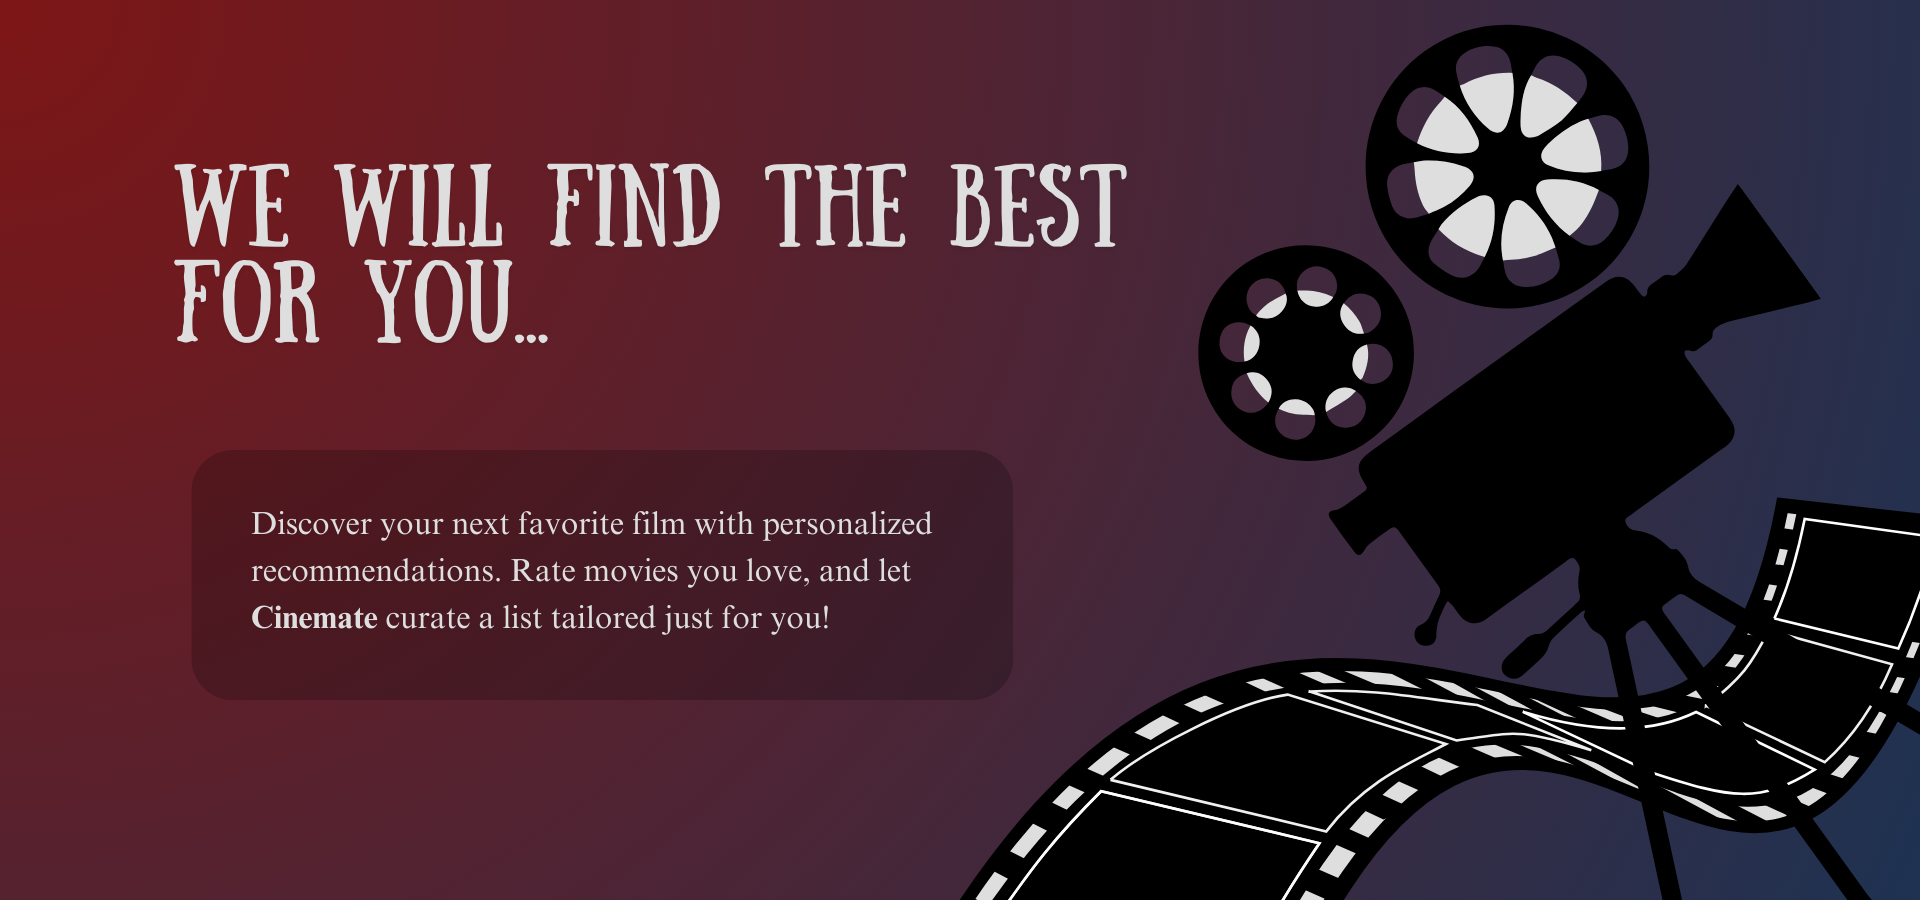
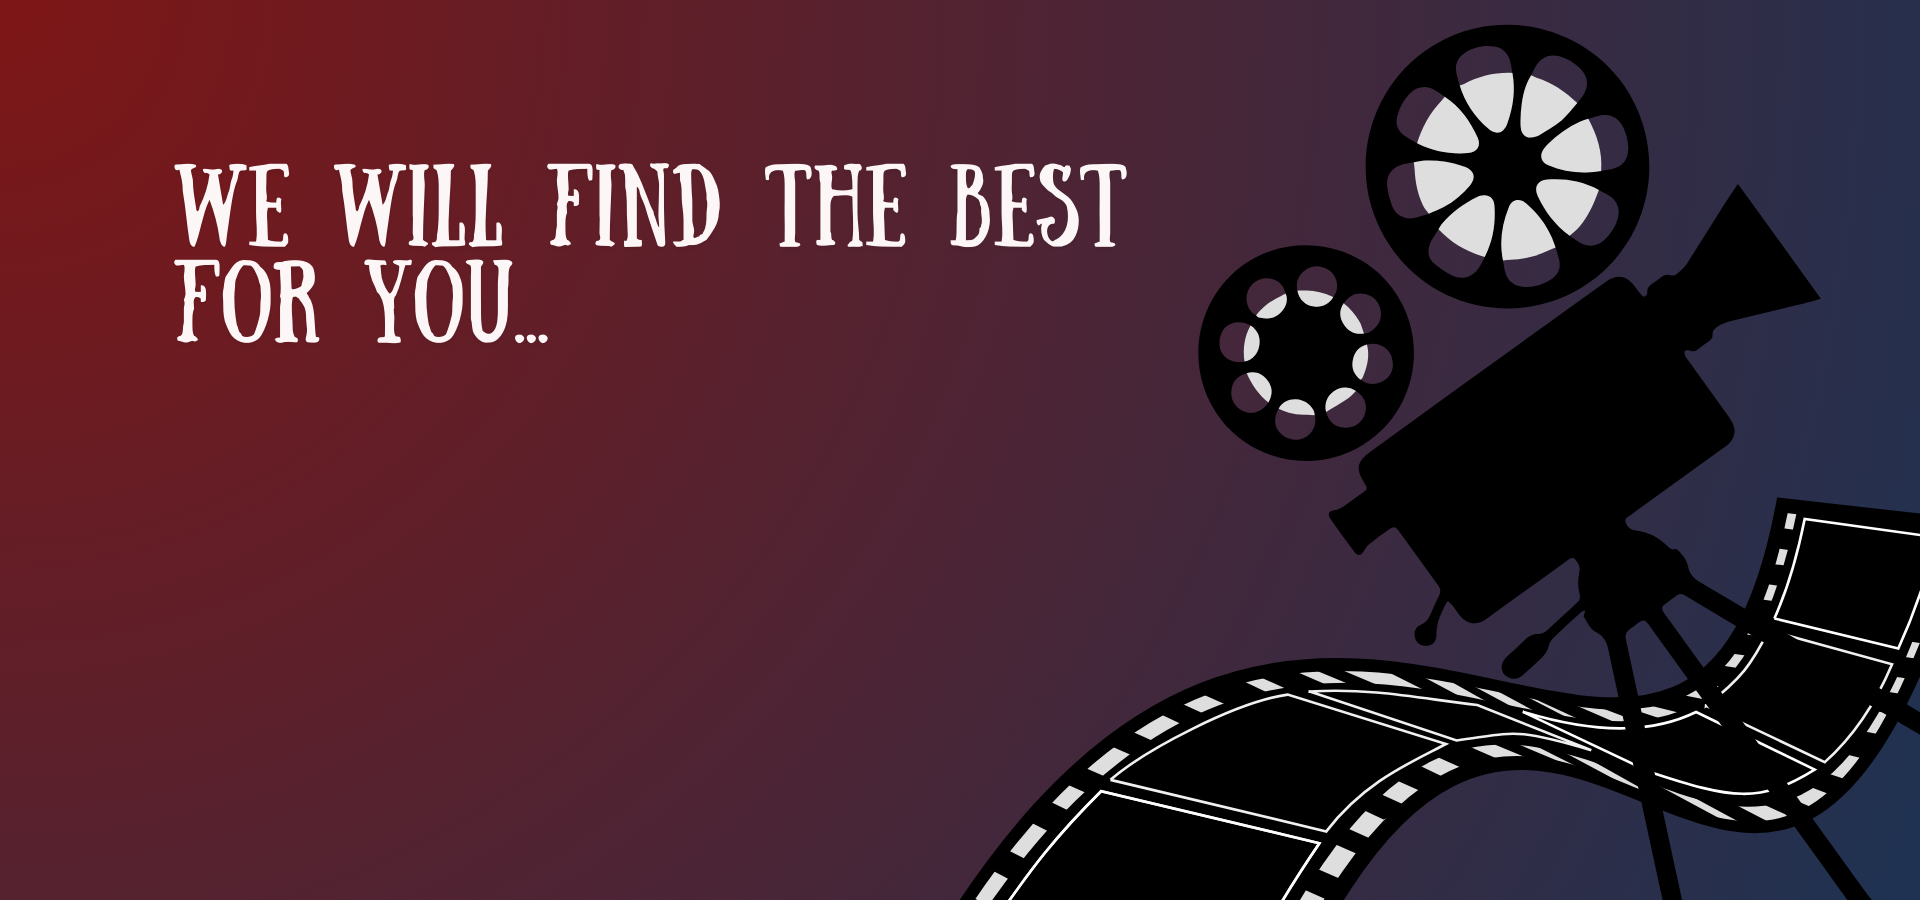
c

diff --git a/src/Intro/Paragraph.css b/src/Intro/Paragraph.css
@@ -1,0 +1,19 @@
+.ParagraphDiv {
+    width: 700px;
+    height: 200px;
+    background-color: rgba(0, 0, 0, 0.25);
+    border-radius: 40px;
+    margin-top: 355px;
+    margin-left: 160px;
+    padding: 5px 0px 15px 70px;
+    justify-content: center;
+}
+
+.Paragraph {
+    width: 90%;
+    height: 90%;
+    font-size: 30px;
+    line-height: 50px;
+    font-family: 'Times New Roman', Times, serif;
+    color: aliceblue;
+}

diff --git a/src/Intro/Paragraph.js b/src/Intro/Paragraph.js
@@ -1,0 +1,15 @@
+import './Paragraph.css'
+
+function Paragraph() {
+    return (
+        <div className='ParagraphDiv'>
+            <p className='Paragraph'>
+            Discover your next favorite film with personalized
+            recommendations. Rate movies you love, and let 
+            Cinemate curate a list tailored just for you!
+            </p>
+        </div>
+    )
+}
+
+export default Paragraph

diff --git a/src/Pages/Intro.js b/src/Pages/Intro.js
@@ -1,10 +1,13 @@
 import Navbar from "../Intro/Navbar";
 import './Css/Intro.css'
+import './../Intro/Paragraph'
+import Paragraph from "./../Intro/Paragraph";
 
 function Intro() {
     return (
       <div className="Intro">
         <Navbar />
+        <Paragraph />
       </div>
     );
 }
